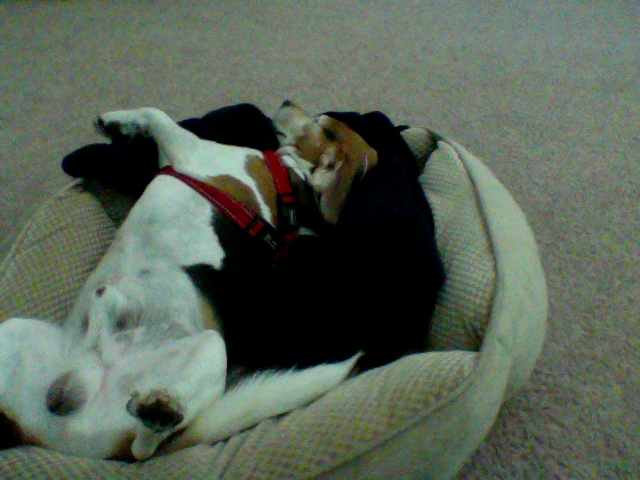
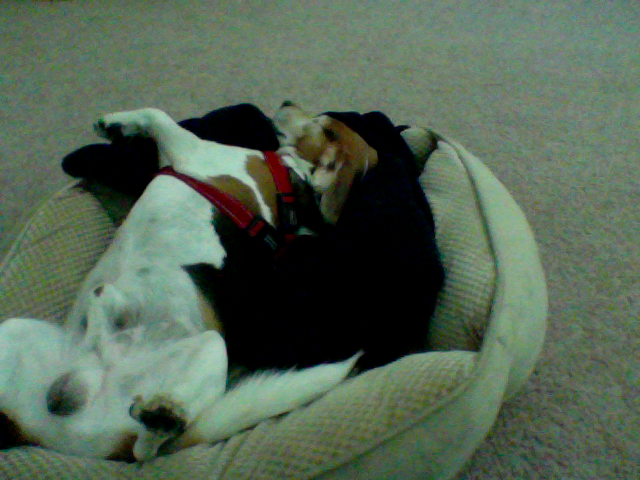
update at Month05Day08Time15:53

diff --git a/index.html b/index.html
@@ -39,8 +39,8 @@
       <!-- Example row of columns -->
       <div class="row">
         <div class="col-md-4">
-	<p>This picture was updated at Month05Day08Time15:52</p>
-		<img src="10_pic.png" />
+	<p>This picture was updated at Month05Day08Time15:53</p>
+		<img src="2_pic.png" />
         </div>
       </div>
 
